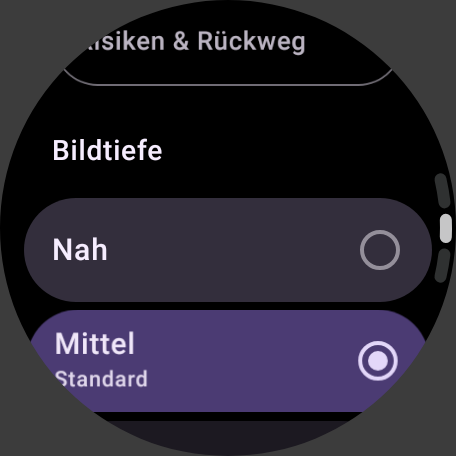
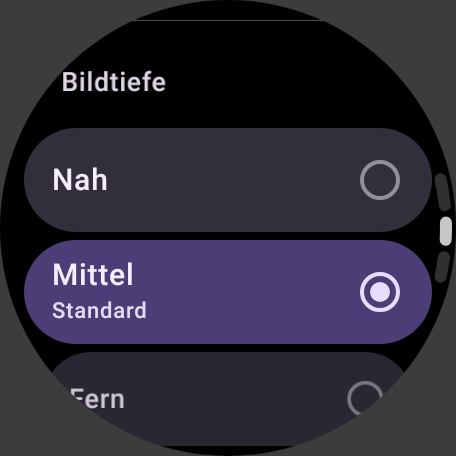
Review fixes for depth: random-order pointer test, Depth tests, docs
The pointer is now patched into the desktop frame block by block, so a
missed restore would leave arrow pixels on the glasses. A seeded test
mixes moves, clicks, apps in both input modes, status changes, new
sessions and depth changes, and checks the surface equals desktop plus
arrow after each pause (it fails if the old block is not restored).
DepthTest pins the levels to Even's per-lens tables and checks that an
unknown stored name falls back to Mittel; GrayRasterTest covers the new
clearOutside, copyFrom, union and intersect.

Docs: README no longer says which stock level is "Nah" (unconfirmed);
00, 01 and 03 say the lenses were checked in code, not on the glasses,
that the edges may look different per eye, and that Nah/Fern add the
clear on the glasses. The settings picture now shows all three levels.

Claude-Session: https://claude.ai/code/session_01HuvMy7K9HZjcvpoyqKZXXz

diff --git a/app/src/test/java/ch/madtreasures/g2watch/desktop/DesktopControllerTest.kt b/app/src/test/java/ch/madtreasures/g2watch/desktop/DesktopControllerTest.kt
@@ -11,6 +11,7 @@ import org.junit.Assert.assertNotEquals
 import org.junit.Assert.assertTrue
 import org.junit.Test
 import java.time.LocalDateTime
+import kotlin.random.Random
 
 class DesktopControllerTest {
     private val scheduler = FakeScheduler()
@@ -48,19 +49,16 @@ class DesktopControllerTest {
     private val stage get() = controller.layout.stage
 
     /** What the desktop surface should hold now: the rendered desktop with the pointer drawn in. */
-    private fun expectedScreen(): GrayRaster {
-        val frame = controller.frame.value
-        val screen = GrayRaster(DesktopLayout.SCREEN_WIDTH, DesktopLayout.SCREEN_HEIGHT)
-        for (row in 0 until frame.band.h) {
-            System.arraycopy(frame.pixels, row * frame.band.w, screen.pixels, (frame.band.y + row) * screen.width + frame.band.x, frame.band.w)
-        }
+    private fun expectedScreen(of: DesktopController = controller): GrayRaster {
+        val frame = of.frame.value
+        val screen = desktopOnly(of)
         PointerSprite.drawInto(screen, frame.pointerPixels, frame.pointerX, frame.pointerY, stage)
         return screen
     }
 
     /** The desktop without the pointer, as last rendered. */
-    private fun desktopOnly(): GrayRaster {
-        val frame = controller.frame.value
+    private fun desktopOnly(of: DesktopController = controller): GrayRaster {
+        val frame = of.frame.value
         val raster = GrayRaster(DesktopLayout.SCREEN_WIDTH, DesktopLayout.SCREEN_HEIGHT)
         for (row in 0 until frame.band.h) {
             System.arraycopy(frame.pixels, row * frame.band.w, raster.pixels, (frame.band.y + row) * raster.width + frame.band.x, frame.band.w)
@@ -393,6 +391,51 @@ class DesktopControllerTest {
         scheduler.runPending()
         assertEquals(Pair(stage.right - 1, stage.bottom - 1), Pair(controller.frame.value.pointerX, controller.frame.value.pointerY))
         assertEquals(Rect(32, 96, 576, 288), stage)
+    }
+
+    @Test
+    fun `in any order of events the glasses end up with the desktop and the arrow where it is`() {
+        // Moves, clicks, apps in both input modes, status changes, new sessions and depths, with time passing in
+        // between. After each pause the surface holds exactly the desktop plus the arrow (none in gesture mode):
+        // the small pointer blocks leave nothing behind.
+        for (seed in 0 until 40) {
+            val rnd = Random(seed)
+            val clock = FakeScheduler()
+            val desktop = DesktopController(text, clock, nowMs = { clock.now }, now = { LocalDateTime.of(2026, 9, 25, 14, 5) })
+            desktop.connectApps(Apps())
+            var glasses: FakeDisplay? = FakeDisplay().also { desktop.attach(it) }
+            var pointerShown = true
+            repeat(150) { step ->
+                when (rnd.nextInt(11)) {
+                    in 0..3 -> desktop.moveBy(rnd.nextInt(-80, 80).toFloat(), rnd.nextInt(-60, 60).toFloat())
+                    4 -> desktop.click()
+                    5 -> desktop.back()
+                    6 -> {
+                        pointerShown = rnd.nextBoolean()
+                        desktop.showApp(appView(pointer = pointerShown, fullScreen = rnd.nextBoolean(), value = rnd.nextInt(256)))
+                    }
+                    7 -> {
+                        desktop.closeApp()
+                        pointerShown = true
+                    }
+                    8 -> desktop.updateStatus { it.copy(glassesBattery = rnd.nextInt(101)) }
+                    9 -> if (rnd.nextInt(3) == 0) {
+                        desktop.detach()
+                        glasses = null
+                    } else {
+                        glasses = FakeDisplay().also { desktop.attach(it) }
+                    }
+                    else -> desktop.setDepth(Depth.entries.random(rnd))
+                }
+                clock.advanceBy(rnd.nextLong(0, 40))
+                val shown = glasses
+                if (shown == null || rnd.nextInt(3) != 0) return@repeat
+                clock.advanceBy(10 * DesktopController.POINTER_INTERVAL_MS)
+                val want = if (pointerShown) expectedScreen(desktop) else desktopOnly(desktop)
+                assertArrayEquals("seed $seed, step $step", want.pixels, shown.content("desktop").pixels)
+                assertEquals("seed $seed, step $step", desktop.depth.value.disparity, shown.depths.last().second)
+            }
+        }
     }
 
     @Test

diff --git a/app/src/test/java/ch/madtreasures/g2watch/desktop/GrayRasterTest.kt b/app/src/test/java/ch/madtreasures/g2watch/desktop/GrayRasterTest.kt
@@ -3,6 +3,8 @@ package ch.madtreasures.g2watch.desktop
 import org.junit.Assert.assertArrayEquals
 import org.junit.Assert.assertEquals
 import org.junit.Assert.assertNotEquals
+import org.junit.Assert.assertNull
+import org.junit.Assert.assertThrows
 import org.junit.Test
 
 class GrayRasterTest {
@@ -43,6 +45,37 @@ class GrayRasterTest {
         val r = GrayRaster(3, 3)
         for (y in 0 until 3) for (x in 0 until 3) r[x, y] = y * 3 + x
         assertArrayEquals(byteArrayOf(4, 5, 7, 8), r.copyRegion(1, 1, 2, 2))
+    }
+
+    @Test
+    fun `clearOutside keeps only the rect`() {
+        val r = GrayRaster(6, 5).apply { clear(9) }
+        r.clearOutside(Rect(1, 1, 3, 2))
+        for (y in 0 until 5) for (x in 0 until 6) assertEquals("$x,$y", if (x in 1..3 && y in 1..2) 9 else 0, r[x, y])
+    }
+
+    @Test
+    fun `copyFrom copies one block to the same place`() {
+        val source = GrayRaster(4, 4)
+        for (y in 0 until 4) for (x in 0 until 4) source[x, y] = y * 4 + x + 1
+        val target = GrayRaster(4, 4).apply { clear(99) }
+        target.copyFrom(source, Rect(1, 2, 2, 2))
+        for (y in 0 until 4) for (x in 0 until 4) {
+            assertEquals("$x,$y", if (x in 1..2 && y in 2..3) y * 4 + x + 1 else 99, target[x, y])
+        }
+        assertThrows(IllegalArgumentException::class.java) { target.copyFrom(source, Rect(3, 3, 2, 1)) }
+        assertThrows(IllegalArgumentException::class.java) { target.copyFrom(GrayRaster(5, 4), Rect(0, 0, 1, 1)) }
+    }
+
+    @Test
+    fun `union covers both rects, intersect is the common part or null`() {
+        assertEquals(Rect(0, 0, 10, 8), Rect(0, 0, 4, 4).union(Rect(6, 5, 4, 3)))
+        assertEquals(Rect(2, 1, 3, 3), Rect(2, 1, 3, 3).union(Rect(3, 2, 1, 1)))
+        assertEquals(Rect(2, 2, 2, 2), Rect(0, 0, 4, 4).intersect(Rect(2, 2, 5, 5)))
+        assertEquals(Rect(3, 2, 1, 1), Rect(2, 1, 3, 3).intersect(Rect(3, 2, 1, 1)))
+        // Rects that only touch share no pixel.
+        assertNull(Rect(0, 0, 4, 4).intersect(Rect(4, 0, 2, 2)))
+        assertNull(Rect(0, 0, 4, 4).intersect(Rect(0, 4, 2, 2)))
     }
 
     @Test

diff --git a/app/src/test/java/ch/madtreasures/g2watch/desktop/DepthTest.kt b/app/src/test/java/ch/madtreasures/g2watch/desktop/DepthTest.kt
@@ -1,0 +1,32 @@
+package ch.madtreasures.g2watch.desktop
+
+import org.junit.Assert.assertEquals
+import org.junit.Test
+
+class DepthTest {
+
+    @Test
+    fun `three levels, middle by default, all multiples of 4`() {
+        assertEquals(listOf("Nah", "Mittel", "Fern"), Depth.entries.map { it.label })
+        assertEquals(listOf(16, 0, -16), Depth.entries.map { it.disparity })
+        assertEquals(Depth.MIDDLE, Depth.DEFAULT)
+        // Both lens shifts even: the firmware's fast copy.
+        for (level in Depth.entries) assertEquals(level.name, 0, level.disparity % 4)
+    }
+
+    @Test
+    fun `per lens it is exactly Even's placement`() {
+        // Faceclaw's shift (left floor(d / 2), right -floor((d + 1) / 2)) from x = 32, where depth 0 puts both lenses.
+        val left = Depth.entries.map { 32 + Math.floorDiv(it.disparity, 2) }
+        val right = Depth.entries.map { 32 - Math.floorDiv(it.disparity + 1, 2) }
+        // Even's tables for levels 0, 1, 2 (0x7c8254 left, 0x7c8250 right).
+        assertEquals(listOf(40, 32, 24), left)
+        assertEquals(listOf(24, 32, 40), right)
+    }
+
+    @Test
+    fun `the stored name comes back, anything else gives the default`() {
+        for (level in Depth.entries) assertEquals(level, Depth.of(level.name))
+        for (stored in listOf(null, "", "near", "Nah", "16", "MIDDLE ")) assertEquals("$stored", Depth.MIDDLE, Depth.of(stored))
+    }
+}

diff --git a/app/src/test/java/ch/madtreasures/g2watch/ui/WatchSnapshotTest.kt b/app/src/test/java/ch/madtreasures/g2watch/ui/WatchSnapshotTest.kt
@@ -218,7 +218,7 @@ class WatchSnapshotTest {
     fun settingsPointer() = settingsSnapshot("uhr-einstellungen-zeiger", "Protokoll")
 
     @Test
-    fun settingsDepth() = settingsSnapshot("uhr-einstellungen-bildtiefe", "Nah")
+    fun settingsDepth() = settingsSnapshot("uhr-einstellungen-bildtiefe", "Fern")
 
     @Test
     fun firmwareConfirm() = snapshot("uhr-firmware-bestaetigen") {

diff --git a/docs/app-entwicklung/03_Uhr-Apps.md b/docs/app-entwicklung/03_Uhr-Apps.md
@@ -284,10 +284,10 @@ Seit v0.9.0. Alles in `desktop/`; Apps merken davon nichts, die App-Fläche blei
 | Eine Fläche | `DesktopController` schickt nur noch die deckende Fläche „desktop“ (640 × 480, z 0); der Zeiger ist in ihr Bild gezeichnet (`PointerSprite.drawInto`), am Rand der Bühne abgeschnitten. Faceclaws Compositor wendet die Tiefe nur an, wenn die oberste sichtbare Fläche deckend den ganzen Schirm füllt – mit der früheren Zeiger-Fläche darüber galt sie nur im Gesten-Modus. |
 | Zeiger | Höchstens 30 Bilder pro Sekunde wie bisher. Eine Bewegung schickt nur den Block um alte und neue Zeigerstelle (`GlassesDisplay.submit` mit Rechteck), das Bild darunter liegt ohne Zeiger bereit. Über Bluetooth geht wie bisher nur die Differenz. Der Fingerabdruck enthält Desktop, Zeigerstelle und Zeigerpixel. |
 | Bildtiefe | `Depth`: Nah = +16, Mittel = 0 (Standard), Fern = −16 – genau Evens Stufen 0/1/2 (Glas rechts x = 24/32/40, links 40/32/24). `GlassesDisplay.setDepth` → `setSurfaceDepth` des Kerns, dann ein neues Gesamtbild (`setSurfaceVisible`). Jede Sitzung hat einen eigenen Compositor, deshalb setzt `attach` die Tiefe jedes Mal. Gespeichert unter `depth` in den Einstellungen `g2watch`; Auswahl auf der Uhr unter *Einstellungen → Bildtiefe*. |
-| Was die Brille daraus macht | Statt einer Kopie des Bildspeichers malt sie erst Schwarz und kopiert ihn dann je Glas um ±8 px verschoben. Die Liste wird nur bei einer Änderung neu geschickt, jedes Bild kostet also nichts extra. Vielfache von 4 halten beide Verschiebungen gerade (schnelle Kopie). Evens eigene Nachrichten für Tiefe und Höhe schickt die Uhr nicht: Unter der Custom-Firmware wirken sie nicht, und sie würden die Einstellung der Even-App ändern. |
+| Was die Brille daraus macht | Statt einer Kopie des Bildspeichers malt sie erst Schwarz und kopiert ihn dann je Glas um ±8 px verschoben. Die Liste wird nur bei einer Änderung neu geschickt, über Bluetooth kostet also kein Bild etwas extra; auf der Brille kommt bei Nah und Fern je Bild das Schwarzmalen dazu. Vielfache von 4 halten beide Verschiebungen gerade (schnelle Kopie). Evens eigene Nachrichten für Tiefe und Höhe schickt die Uhr nicht: Unter der Custom-Firmware wirken sie nicht, und sie würden die Einstellung der Even-App ändern. |
 | Bühne | `DesktopLayout.stage` = x 32 … 607, y 96 … 383: wo Evens Bild auf „Mittel“ liegt (Evens Firmware lässt nie Pixel außerhalb von x 24 … 615 leuchten). Kopfzeile (Texte 16 px eingerückt, Linie), Kacheln, Fenster, Hinweise und die Spitze des Zeigers bleiben darin; `DesktopRenderer` löscht alles außerhalb. Bei ±16 fällt so nichts über den Rand. |
-| Ausrichtung der Gläser | Geprüft, kein Fehler: Beide Gläser bekommen dasselbe Bild, bei Tiefe 0 Byte für Byte. Die Werksjustierung je Glas liegt im Display-Controller und gilt auch unter der Custom-Firmware ([wissen/02 §7](../firmware-uebergabe/wissen/02-display.md#7-open-questions--uncertainties)). |
-| Tests | `DesktopControllerTest`: Tiefe bei jedem `attach` und sofort bei Änderung; mit Faceclaws echtem `SurfaceCompositor` die Tiefe der Wurzel-Liste, auch mit Zeiger, und je Glas das ganze Bild um die halbe Tiefe verschoben, ohne dass ein Pixel verloren geht; Zeiger im Bild und als kleiner Block; nichts leuchtet außerhalb der Bühne. `DesktopTextFitTest`: mit Androids Schrift passt jeder Text in Kopfzeile oder Fenster. `SettingsScreenTest`: die drei Stufen. |
+| Ausrichtung der Gläser | Im Code und in Evens Firmware geprüft (nicht an der Brille), kein Fehler gefunden: Beide Gläser bekommen dasselbe Bild, bei Tiefe 0 Byte für Byte. Die Werksjustierung je Glas liegt im Display-Controller und gilt auch unter der Custom-Firmware ([wissen/02 §7](../firmware-uebergabe/wissen/02-display.md#7-open-questions--uncertainties)). |
+| Tests | `DesktopControllerTest`: Tiefe bei jedem `attach` und sofort bei Änderung; mit Faceclaws echtem `SurfaceCompositor` die Tiefe der Wurzel-Liste, auch mit Zeiger, und je Glas das ganze Bild um die halbe Tiefe verschoben, ohne dass ein Pixel verloren geht; Zeiger im Bild und als kleiner Block, auch nach zufälligen Folgen von Bewegungen, Klicks, Apps, Verbindungen und Tiefen genau Desktop plus Zeiger; nichts leuchtet außerhalb der Bühne. `DepthTest`: die drei Stufen je Glas genau wie Evens Tabellen, gespeicherter Name zurück, Unbekanntes wird „Mittel“. `DesktopTextFitTest`: mit Androids Schrift passt jeder Text in Kopfzeile oder Fenster. `SettingsScreenTest`: die drei Stufen. |
 
 ## 6. Sensoren, Mikrofon, Summer (M6)
 

diff --git a/README.md b/README.md
@@ -98,8 +98,8 @@ bekommt, probiert eine andere Stufe.
 |---|---|
 | ![Bildtiefe](docs/bilder/uhr-einstellungen-bildtiefe.png) | ![Desktop](docs/bilder/desktop-start.png) |
 
-So geht es: Evens Firmware schiebt ihr Bild für „Nah“ in jedem Glas um 8 Pixel zur Nase hin, für „Fern“
-um 8 Pixel nach außen. Diese Einstellung übernimmt die Custom-Firmware nicht; sie zeigt das Bild der Uhr
+So geht es: Evens Firmware schiebt ihr Bild je nach Stufe in jedem Glas um 8 Pixel zur Nase hin oder nach
+außen. Diese Einstellung übernimmt die Custom-Firmware nicht; sie zeigt das Bild der Uhr
 immer wie „Mittel“. Deshalb verschiebt die Uhr das ganze Bild selbst, mit der Stereo-Tiefe von Faceclaw
 um genau dieselben Pixel (Tiefe +16, 0, −16). Über Bluetooth kostet das nichts. Die Einstellung in der
 Even-App selbst bleibt unberührt. Der Zeiger ist dafür keine eigene Fläche mehr, sondern ins Bild
@@ -110,9 +110,9 @@ bekommen dasselbe Bild an derselben Stelle, genau wie bei Evens Firmware auf „
 Werk für jedes Glas steckt im Display selbst und gilt auch mit der Custom-Firmware. Es gibt also keinen
 Versatz zu beheben. Ein Unterschied war der Rand: Die Linie der Kopfzeile ging über die ganze Breite, ihre
 Texte reichten von x = 12 bis 628 und der Zeiger bis an den Bildrand; Evens Firmware lässt dagegen nie
-Pixel außerhalb von x = 24 bis 615 leuchten. Was so weit außen liegt, sieht womöglich nur ein Auge, und das strengt an. Jetzt liegt alles,
-auch der Zeiger, zwischen x = 32 und 607, wo Evens Bild auf „Mittel“ liegt. So fällt auch bei „Nah“ und
-„Fern“ nichts über den Rand.
+Pixel außerhalb von x = 24 bis 615 leuchten. Was so weit außen liegt, sieht womöglich nur ein Auge, und
+das strengt an. Jetzt liegt alles, auch der Zeiger, zwischen x = 32 und 607, wo Evens Bild auf „Mittel“
+liegt. So fällt auch bei „Nah“ und „Fern“ nichts über den Rand.
 
 Nicht auf Hardware erprobt. Dass +16 näher wirkt, folgt aus der Geometrie und aus Faceclaws Bezeichnung;
 welche Stufe die Even-App „Nah“ nennt, ist nicht belegt. Details:
@@ -495,7 +495,7 @@ die Uhr offline ist.
 ./gradlew -Pg2.geckoTest=true :gecko-probe:testDebugUnitTest
 ```
 
-Stand dieses Commits: 15 + 184 + 32 + 4 + 432 Tests grün, dazu 25 im Gecko-Test (Bild-Tests werden ohne `-PsnapshotDir` übersprungen,
+Stand dieses Commits: 15 + 184 + 32 + 4 + 439 Tests grün, dazu 25 im Gecko-Test (Bild-Tests werden ohne `-PsnapshotDir` übersprungen,
 die Tests mit Evens echtem Image ohne `G2_STOCK_IMAGE`, der Vorschau-Test des Gecko-Tests ohne `PREVIEW_DIR`),
 Lint ohne Fehler. Die wichtigsten:
 
@@ -511,7 +511,8 @@ Lint ohne Fehler. Die wichtigsten:
   Image (≈ 1.130 Blöcke pro Glas) durch Faceclaws Flasher an die simulierte Brille und vergleicht, was
   ankommt.
 - **`DesktopControllerTest`** – Desktop und Zeiger in einer Fläche, eine Zeigerbewegung schickt nur den
-  Block darum; **Bildtiefe** bei jeder Verbindung und sofort bei einer Änderung. Mit Faceclaws echtem
+  Block darum, und nach zufälligen Folgen von Ereignissen zeigt die Brille genau Desktop plus Zeiger;
+  **Bildtiefe** bei jeder Verbindung und sofort bei einer Änderung. Mit Faceclaws echtem
   Compositor: die Tiefe kommt auch mit Zeiger an, und jedes Glas zeigt das ganze Bild um die halbe Tiefe
   verschoben, ohne dass etwas über den Rand fällt; nichts leuchtet außerhalb von x = 32 bis 607.
   **`DesktopTextFitTest`** – mit Androids Schrift passt jeder Text in Kopfzeile oder Fenster.

diff --git a/docs/app-entwicklung/00_LIES_MICH.md b/docs/app-entwicklung/00_LIES_MICH.md
@@ -66,7 +66,7 @@ Weitere Video-Apps können denselben Befehl `video` nutzen.
 
 | Teil | Stand | Wo |
 |---|---|---|
-| Firmware aufspielen, Verbindung, Maus-Desktop auf der Brille | **fertig** (v0.3.0). **Custom-Firmware auf echter Uhr und Brille aufgespielt** (rechtes Glas erst im zweiten Anlauf, der Rückweg aus der Fehlermeldung hat funktioniert); das Übrige nicht auf Hardware erprobt. Seit v0.9.0 Bildtiefe Nah/Mittel/Fern und alles im Bereich von Evens Bild (x 32 … 607); beide Gläser geprüft, kein Versatz | `app/`, [FIRMWARE.md](../FIRMWARE.md), [03 §5.3](03_Uhr-Apps.md#53-bildtiefe-und-bildrand) |
+| Firmware aufspielen, Verbindung, Maus-Desktop auf der Brille | **fertig** (v0.3.0). **Custom-Firmware auf echter Uhr und Brille aufgespielt** (rechtes Glas erst im zweiten Anlauf, der Rückweg aus der Fehlermeldung hat funktioniert); das Übrige nicht auf Hardware erprobt. Seit v0.9.0 Bildtiefe Nah/Mittel/Fern und alles im Bereich von Evens Bild (x 32 … 607); beide Gläser im Code geprüft, kein Versatz gefunden | `app/`, [FIRMWARE.md](../FIRMWARE.md), [03 §5.3](03_Uhr-Apps.md#53-bildtiefe-und-bildrand) |
 | G2 Baukasten (Seiten entwerfen) | **fertig**, braucht kleine Erweiterungen (M0) | `designer/` |
 | App-Modell, Seitenformat, Ereignisse | **spezifiziert** hier | [02](02_App-Modell.md) |
 | App-Host auf der Uhr, Uhr-Apps (Starter, App-Menü) | **fertig** (M1, v0.4.0 aus Pull Request #2, nicht auf Hardware erprobt). Aus Pull Request #1, der den Host ein zweites Mal baute, sind nur die M2-Teile übernommen (v0.7.0). Die Beispiele Stoppuhr und Einkaufsliste sind entfernt (v0.7.0) | [03](03_Uhr-Apps.md), `app/…/apps/` |

diff --git a/docs/app-entwicklung/01_Plattform_und_Grenzen.md b/docs/app-entwicklung/01_Plattform_und_Grenzen.md
@@ -12,7 +12,7 @@ von uns.
 | Größe | Wert | Bedeutung für Apps |
 |---|---|---|
 | Bildspeicher je Glas | 640 × 480 Pixel | Die Uhr zeichnet in diese Fläche. |
-| Sichtbarer Streifen | 640 × **288**, mittig (y = 96 … 383) | Die Optik zeigt nicht die ganze Höhe. Faceclaw und G2 Watch legen alles in diesen Streifen. G2 Watch lässt seit v0.9.0 auch links und rechts 32 px frei (x = 32 … 607, wie Evens Firmware), weil die Ränder nicht für beide Augen gleich sind ([03 §5.3](03_Uhr-Apps.md#53-bildtiefe-und-bildrand)). |
+| Sichtbarer Streifen | 640 × **288**, mittig (y = 96 … 383) | Die Optik zeigt nicht die ganze Höhe. Faceclaw und G2 Watch legen alles in diesen Streifen. G2 Watch lässt seit v0.9.0 auch links und rechts 32 px frei (x = 32 … 607, wie Evens Firmware), weil die Ränder womöglich nicht für beide Augen gleich aussehen ([03 §5.3](03_Uhr-Apps.md#53-bildtiefe-und-bildrand)). |
 | **App-Fläche** | **576 × 260** bei (32, 124) | Unter der 28 px hohen Kopfzeile der Uhr (Uhrzeit, App-Name, Akku). Das ist die Fläche einer App. |
 | App-Fläche Vollbild | 576 × 288 bei (32, 96) | Ohne Kopfzeile (`statusBar: false`); so groß ist auch Evens Entwickler-Leinwand. |
 | Farben | 16 Graustufen, grün | Stufe 0 = aus = durchsichtig. Helle Flächen blenden, große helle Flächen vermeiden. |
